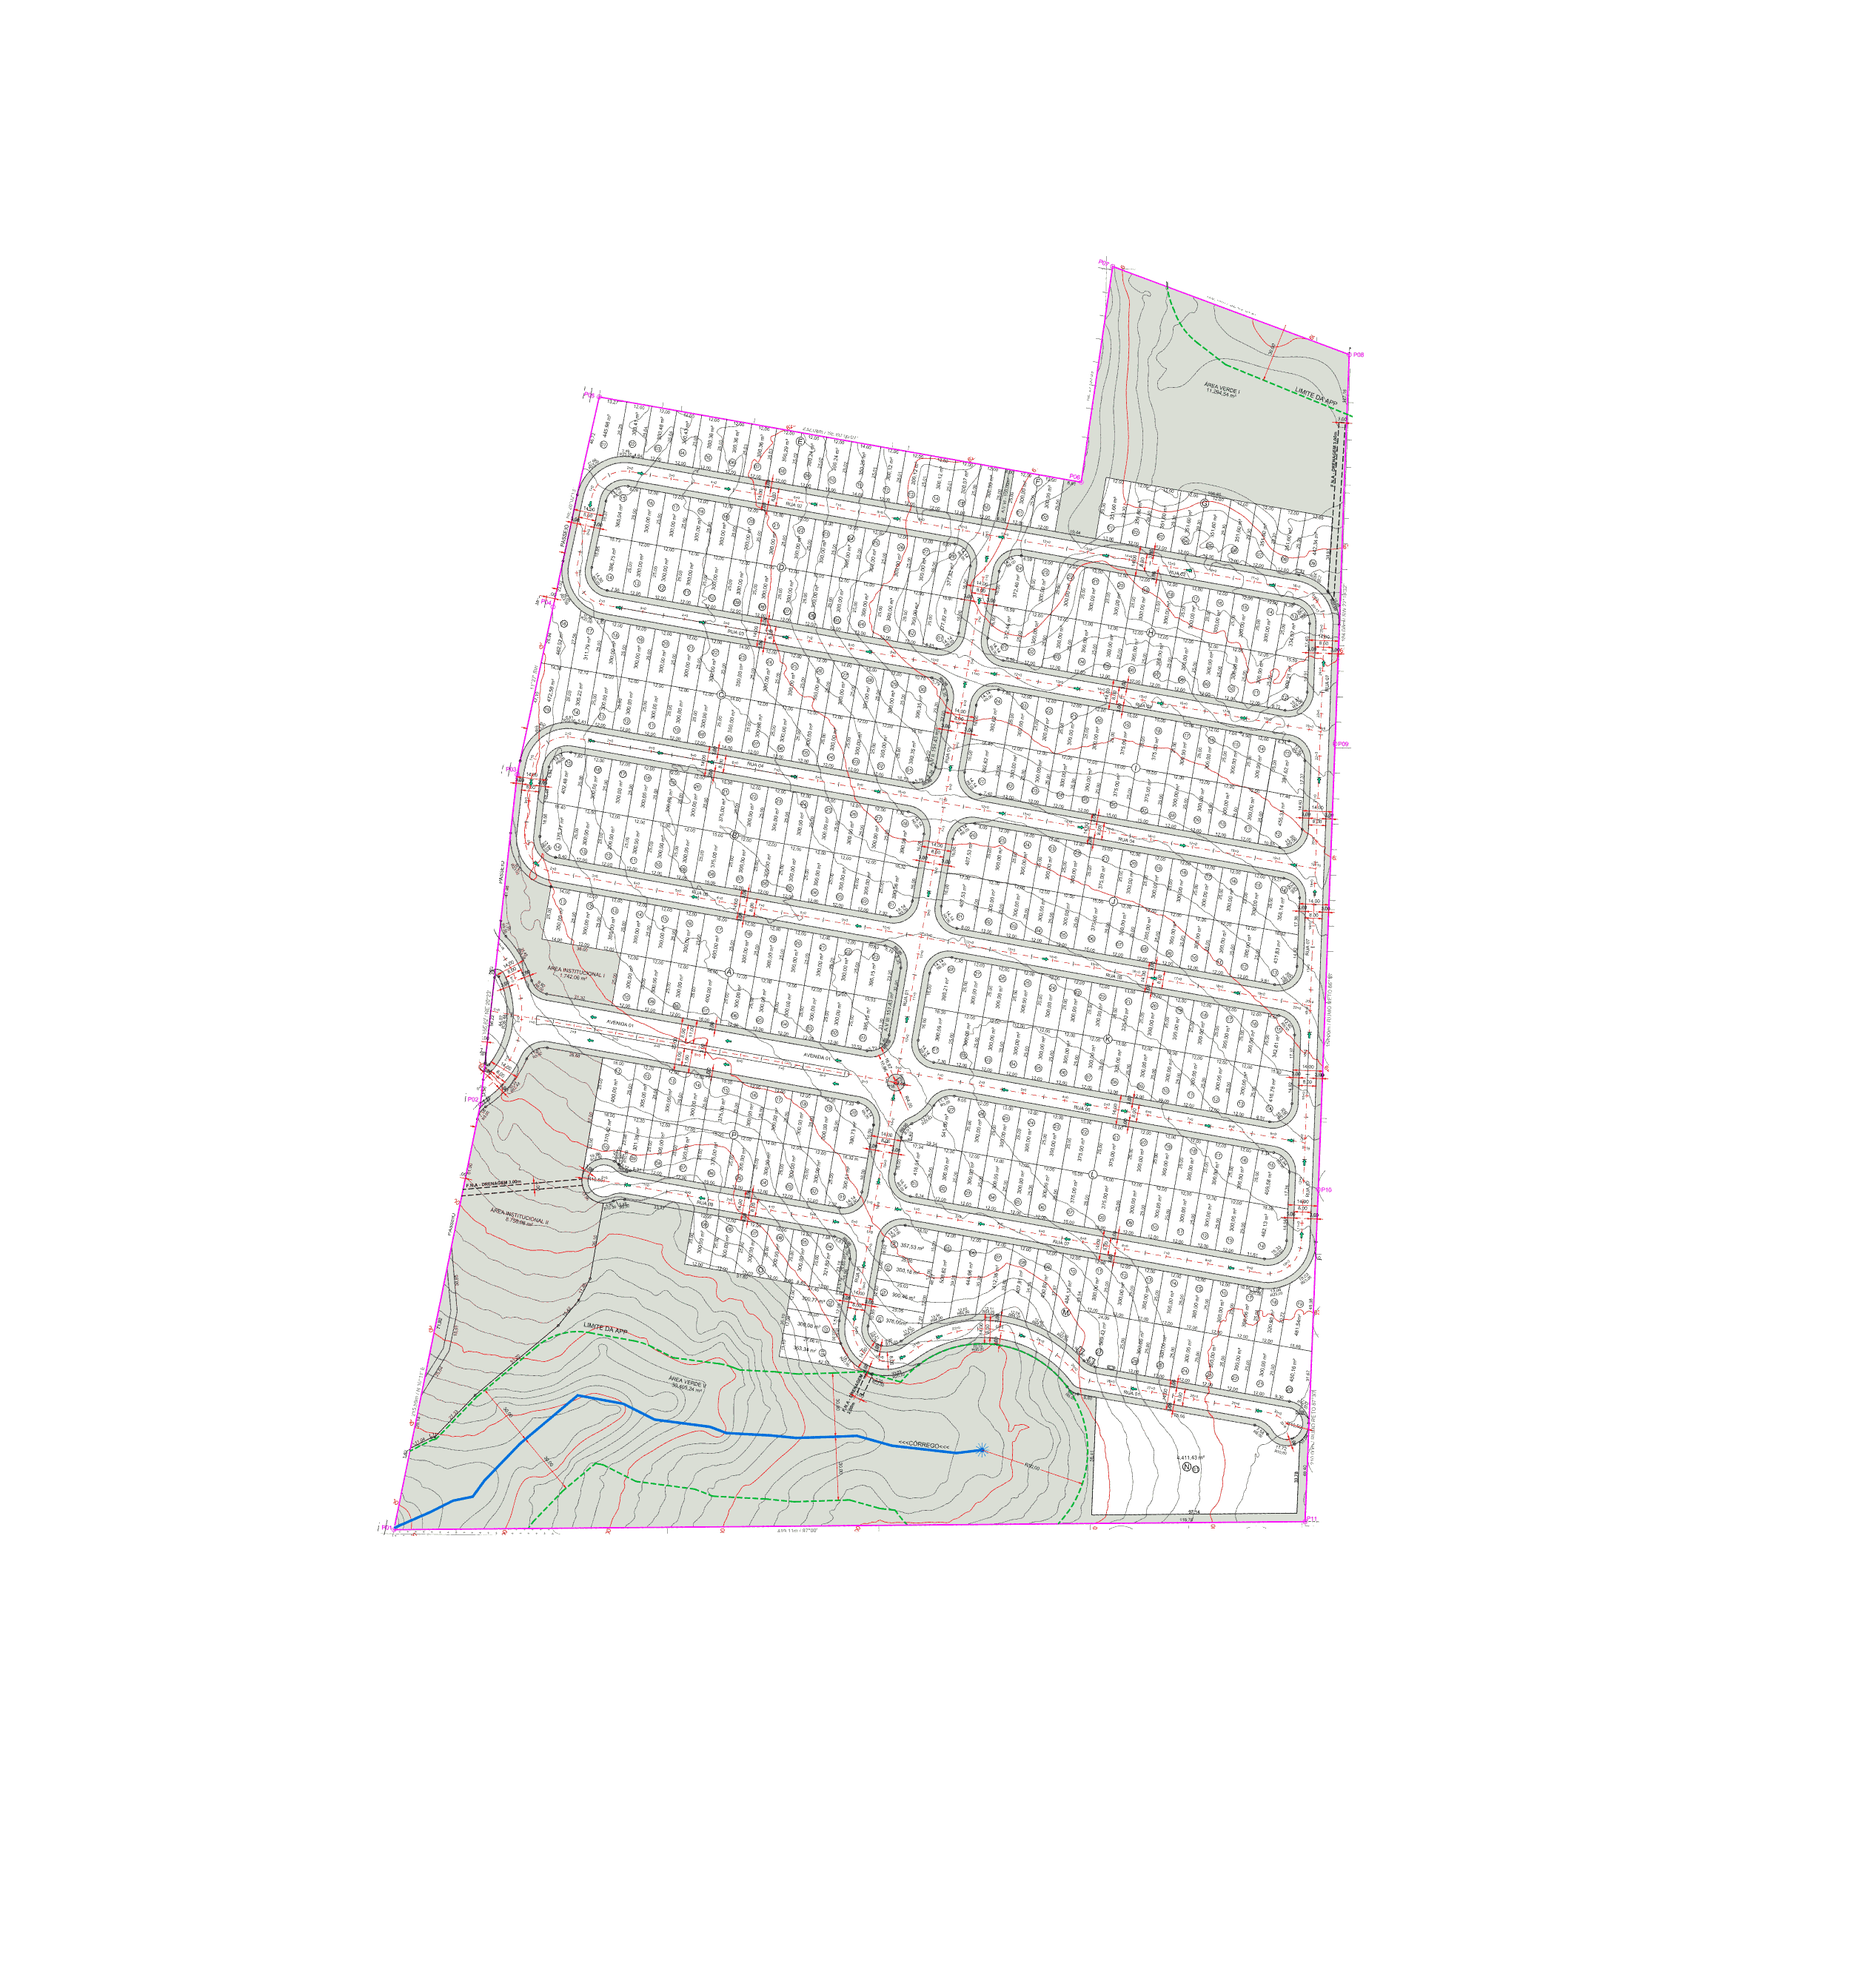
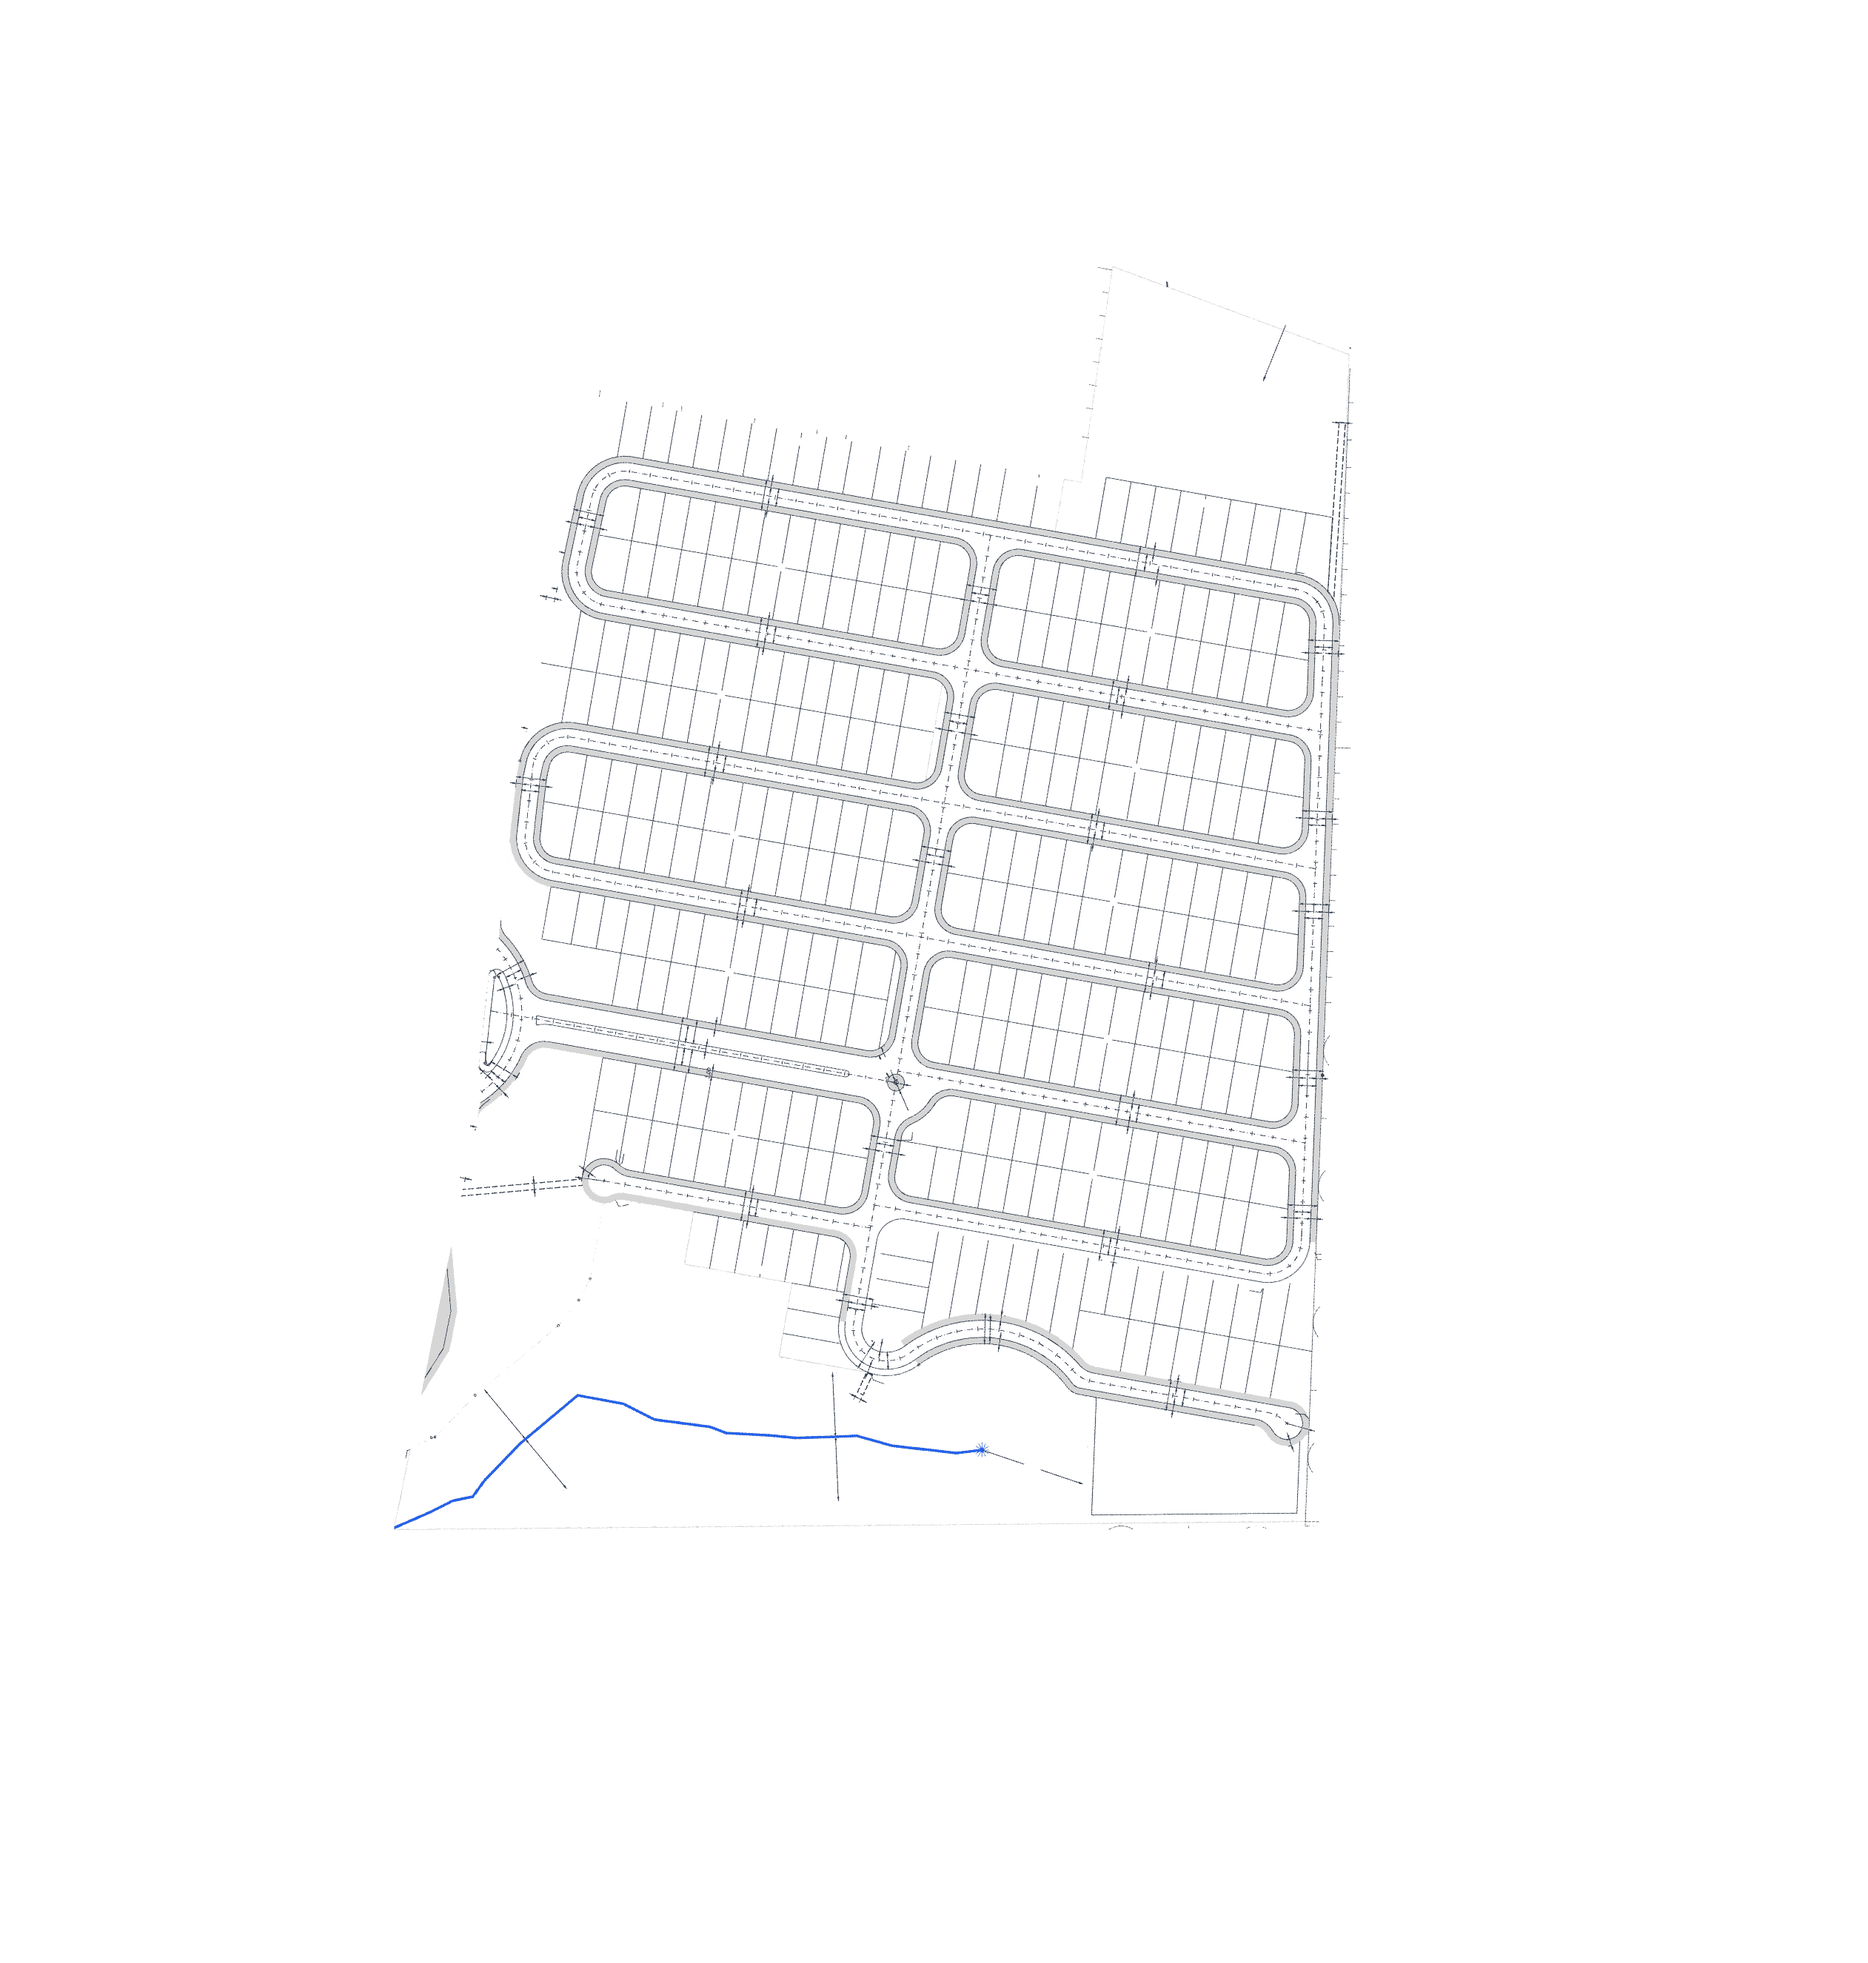
Mapa de lotes: desenho limpo no Alpnach (divisas por atributo de traço do PDF achatado) e ferramentas do filtro por atributo

Changed region(s): [[0.2164, 0.1237, 0.742, 0.8039]]

diff --git a/ferramentas/mapa-lotes/pdf-camadas.py b/ferramentas/mapa-lotes/pdf-camadas.py
@@ -7,8 +7,14 @@
 import sys
 sys.stdout.reconfigure(encoding='utf-8')
 from pypdf import PdfReader, PdfWriter
-from pypdf.generic import ContentStream, NameObject
+from pypdf.generic import ContentStream, NameObject, FloatObject
+LARG_MIN = float(sys.argv[4]) if len(sys.argv) > 4 and not sys.argv[4].startswith('--') else 0
 ent, sai, manter = sys.argv[1], sys.argv[2], set(x.strip() for x in sys.argv[3].split(';'))
+# modo por ATRIBUTO (plantas sem camadas): "attr:RG:0.0,0.0,0.0|5.0;G:0.38|4.0" -> mantem so caminhos tracados com essa cor|largura
+por_atrib = None
+if sys.argv[3].startswith('attr:'): por_atrib = set(x.strip() for x in sys.argv[3][5:].split(';')); manter = set()
+descartar = None   # modo "drop:cor|largura;..." -> mantem tudo (sem texto) menos essas combinacoes (largura '*' = qualquer)
+if sys.argv[3].startswith('drop:'): descartar = set(x.strip() for x in sys.argv[3][5:].split(';')); por_atrib = set(); manter = set()
 r = PdfReader(ent); pg = r.pages[0]
 props = pg['/Resources'].get('/Properties', {})
 nome = {}
@@ -20,8 +26,22 @@ PINTA = {b'S', b's', b'f', b'F', b'f*', b'B', b'B*', b'b', b'b*', b'n', b'W', b'
 CONSTROI = {b'm', b'l', b'c', b'v', b'y', b'h', b're'}
 TEXTO = {b'Tj', b'TJ', b"'", b'"'}
 pilha = []; saida = []; n_ops = 0; n_drop = 0; vistos = {}
+cor = 'G:0.0'; larg = 1.0
+def fmt(ops, op): return op.decode() + ':' + ','.join(str(round(float(x), 2)) for x in ops if isinstance(x, (int, float)) or hasattr(x, 'real'))
 for operandos, op in cs.operations:
     n_ops += 1
+    if por_atrib is not None or descartar is not None:
+        if op in (b'RG', b'K', b'G', b'CS', b'SC', b'SCN'): cor = fmt(operandos, op)
+        elif op == b'w':
+            larg = round(float(operandos[0]), 3)
+            if LARG_MIN and larg < LARG_MIN: operandos = [FloatObject(LARG_MIN)]   # engrossa traco fino (plantas em hairline)
+        if op in TEXTO: n_drop += 1; continue
+        if op == b'Do': saida.append((operandos, op)); continue   # XObjects (blocos do CAD) sempre ficam no modo atributo
+        if descartar is not None:
+            if (op in PINTA or op in CONSTROI) and ((cor + '|' + str(larg)) in descartar or (cor + '|*') in descartar): n_drop += 1; continue
+            saida.append((operandos, op)); continue
+        if (op in PINTA or op in CONSTROI) and (cor + '|' + str(larg)) not in por_atrib: n_drop += 1; continue
+        saida.append((operandos, op)); continue
     if op == b'BDC':
         tag = str(operandos[0]) if operandos else ''
         camada = nome.get(tag) if str(operandos[0]) == '/OC' and len(operandos) > 1 and False else None

diff --git a/ferramentas/mapa-lotes/limpo-lote.py b/ferramentas/mapa-lotes/limpo-lote.py
@@ -8,13 +8,13 @@ itens = json.load(open(sys.argv[1], encoding='utf-8'))
 for it in itens:
     n = it['id']; print('=====', n, flush=True)
     pdf = glob.glob(it['pdf'])[0]
-    r = subprocess.run([PY, S + '/pdf-camadas.py', pdf, T + n + '-limpo.pdf', it['camadas']], capture_output=True, text=True, encoding='utf-8'); print(r.stdout.strip()[-200:], r.stderr.strip()[-200:], flush=True)
+    r = subprocess.run([PY, S + '/pdf-camadas.py', pdf, T + n + '-limpo.pdf', it['camadas']] + ([str(it['larg_min'])] if it.get('larg_min') else []), capture_output=True, text=True, encoding='utf-8'); print(r.stdout.strip()[-200:], r.stderr.strip()[-200:], flush=True)
     for f in glob.glob(T + '5000/' + n + '-limpo-p1.png'): os.remove(f)
     subprocess.run(['powershell', '-NoProfile', '-ExecutionPolicy', 'Bypass', '-File', REPO + '/ferramentas/pdf2png.ps1', '-Pdf', (T + n + '-limpo.pdf').replace('/', chr(92)), '-Largura', '5000', '-Saida', (T + '5000').replace('/', chr(92))], capture_output=True)
     if not os.path.exists(T + '5000/' + n + '-limpo-p1.png'):   # o WinRT falha as vezes na 1a tentativa
         subprocess.run(['powershell', '-NoProfile', '-ExecutionPolicy', 'Bypass', '-File', REPO + '/ferramentas/pdf2png.ps1', '-Pdf', (T + n + '-limpo.pdf').replace('/', chr(92)), '-Largura', '5000', '-Saida', (T + '5000').replace('/', chr(92))], capture_output=True)
     if not os.path.exists(T + '5000/' + n + '-limpo-p1.png'): print('  render falhou', flush=True); continue
-    r = subprocess.run([PY, S + '/recolore-limpo.py', T + '5000/' + n + '-limpo-p1.png', T + '5000/' + n + '-limpa.png'], capture_output=True, text=True, encoding='utf-8'); print(' ', r.stdout.strip()[-120:], flush=True)
+    r = subprocess.run([PY, S + '/recolore-limpo.py', T + '5000/' + n + '-limpo-p1.png', T + '5000/' + n + '-limpa.png'] + (['--tudo-escuro'] if it.get('tudo_escuro') else []), capture_output=True, text=True, encoding='utf-8'); print(' ', r.stdout.strip()[-120:], flush=True)
     o = json.load(open(T + it['overlay_cfg'], encoding='utf-8'))
     o['png_mascara'] = o['png']; o['png'] = '5000/' + n + '-limpa.png'; o['branco'] = 245; o['cores'] = 16
     o['saida'] = T + n + '-limpo-overlay.png'; o['saida_bounds'] = n + '-limpo-bounds.json'

diff --git a/ferramentas/mapa-lotes/recolore-limpo.py b/ferramentas/mapa-lotes/recolore-limpo.py
@@ -9,12 +9,13 @@ im = Image.open(ent).convert('RGB'); r, g, b = im.split()
 mn = ImageChops.darker(ImageChops.darker(r, g), b); mx = ImageChops.lighter(ImageChops.lighter(r, g), b)
 sat = ImageChops.subtract(mx, mn, 1, 0)
 escuro = mx.point(lambda v: 255 if v < 150 else 0)                                   # linhas pretas/cinza escuro
-claro = ImageChops.multiply(mx.point(lambda v: 255 if 150 <= v < 245 else 0), sat.point(lambda v: 255 if v < 30 else 0))   # cinza do leito
+claro = ImageChops.multiply(mx.point(lambda v: 255 if 150 <= v < 245 else 0), sat.point(lambda v: 255 if v < 8 else 0))   # so cinza puro (leito/guia); hachuras coloridas ficam de fora   # cinza do leito
 mag = ImageChops.multiply(ImageChops.multiply(r.point(lambda v: 255 if v > 150 else 0), b.point(lambda v: 255 if v > 150 else 0)), g.point(lambda v: 255 if v < 140 else 0))
 azul = ImageChops.multiply(b.point(lambda v: 255 if v > 150 else 0), r.point(lambda v: 255 if v < 120 else 0))
 out = Image.new('RGB', im.size, (255, 255, 255))
 out.paste((55, 65, 81) if '--tudo-escuro' in sys.argv else (214, 214, 214), (0, 0), claro)   # --tudo-escuro: plantas com divisas em cinza claro
-out.paste((55, 65, 81), (0, 0), escuro)
+vermelho = ImageChops.multiply(ImageChops.multiply(r.point(lambda v: 255 if v > 140 else 0), ImageChops.subtract(r, g, 1, 0).point(lambda v: 255 if v >= 50 else 0)), ImageChops.subtract(r, b, 1, 0).point(lambda v: 255 if v >= 50 else 0))   # divisas em vermelho (cor 1 do CAD)
+out.paste((55, 65, 81), (0, 0), ImageChops.lighter(escuro, vermelho))
 out.paste((37, 99, 235), (0, 0), azul)
 out.paste((46, 125, 91), (0, 0), mag)
 out.save(sai); print('recolorido ->', sai)
